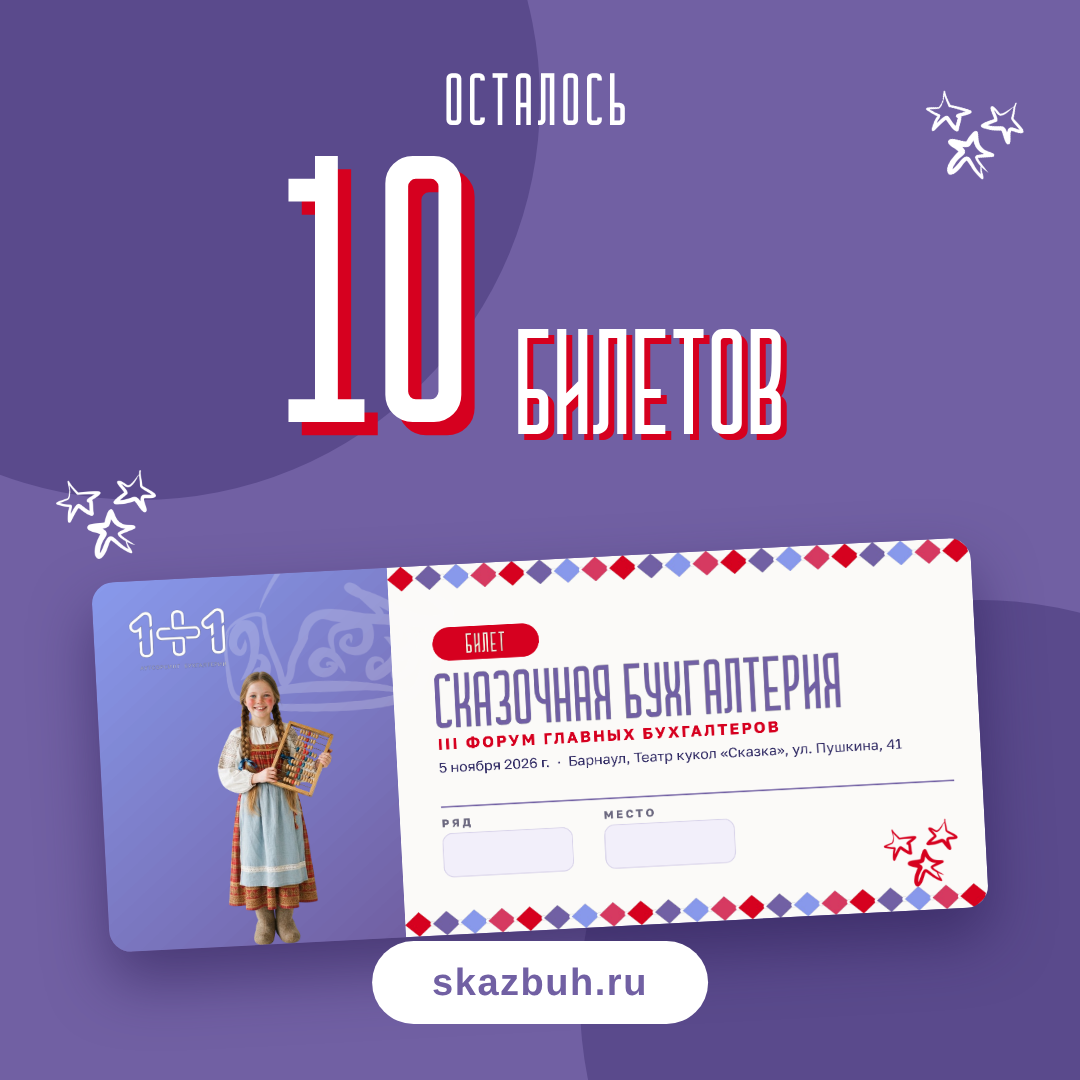
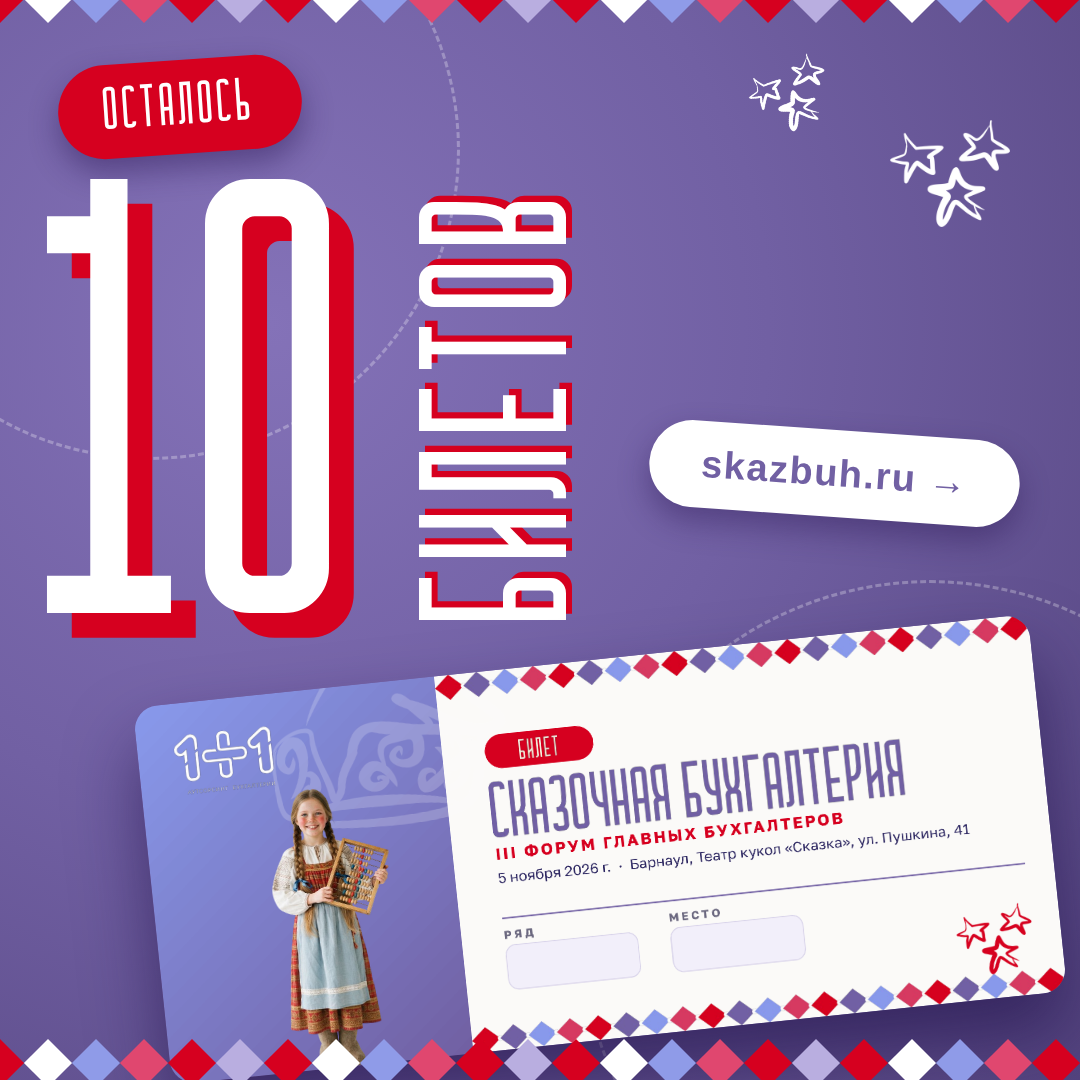
Social creatives: dynamic layout (giant 10, vertical 'билетов', tilted ticket, diamond ornament)
Claude-Session: https://claude.ai/code/session_01DZEn5nyTAWE8zavBUm6caU

diff --git a/conference-skazbuh/social/story.html b/conference-skazbuh/social/story.html
@@ -1,19 +1,22 @@
-<!DOCTYPE html><html lang="ru"><head><meta charset="utf-8"><link rel="stylesheet" href="post.css">
+<!DOCTYPE html><html lang="ru"><head><meta charset="utf-8"><link rel="stylesheet" href="post2.css">
 <style>
 html,body{width:1080px;height:1920px}
-.bgc.a{left:-300px;top:-150px;width:900px;height:900px}
-.bgc.b{right:-340px;bottom:-240px;width:960px;height:960px}
-.left{left:0;right:0;text-align:center;top:380px;font-size:92px;letter-spacing:.06em}
-.ten{left:0;right:0;text-align:center;top:500px;font-size:430px;line-height:.82;white-space:nowrap;text-shadow:.035em .035em 0 var(--red)}
-.bil{position:absolute;left:0;right:0;text-align:center;top:850px;font-family:'Cramaten',sans-serif;font-size:150px;line-height:.9;color:#fff;text-transform:uppercase;text-shadow:.04em .04em 0 var(--red)}
-.ticket{position:absolute;left:50%;margin-left:-480px;top:1075px;width:960px;border-radius:22px;box-shadow:0 30px 60px rgba(40,25,80,.55);transform:rotate(-3deg)}
-.btn{left:50%;transform:translateX(-50%);top:1580px;font-size:40px;padding:22px 64px}
-.star{width:120px}.s1{left:56px;top:360px}.s2{right:60px;top:880px;transform:rotate(18deg)}
+.ring.r1{left:-200px;top:140px;width:760px;height:760px}
+.ring.r2{right:-260px;bottom:120px;width:820px;height:820px}
+.pill.o{left:62px;top:290px;font-size:72px;padding:18px 54px 14px;transform:rotate(-4deg)}
+.big.n{left:54px;top:430px;font-size:760px}
+.vert.w{left:470px;top:1020px;font-size:250px;letter-spacing:.04em;text-shadow:.03em .03em 0 var(--red);transform:rotate(-90deg);transform-origin:left top}
+.ticket{left:60px;top:1100px;width:960px;transform:rotate(-6deg)}
+.btn{left:50%;margin-left:-250px;top:1600px;width:500px;text-align:center;font-size:42px;padding:24px 0;transform:rotate(-2deg)}
+.s1{right:60px;top:420px;width:140px}.s2{right:230px;top:340px;width:90px;transform:rotate(-16deg)}
+.s3{right:70px;top:830px;width:120px;transform:rotate(12deg)}
 </style></head><body>
-<div class="bgc a"></div><div class="bgc b"></div>
-<img class="star s1" src="zvezdy-w.png" alt=""><img class="star s2" src="zvezdy-w.png" alt="">
-<div class="left">Осталось</div>
-<div class="ten">10</div><div class="bil">билетов</div>
+<div class="ring r1"></div><div class="ring r2"></div>
+<img class="star s1" src="zvezdy-w.png" alt=""><img class="star s2" src="zvezdy-w.png" alt=""><img class="star s3" src="zvezdy-w.png" alt="">
+<div class="pill o">Осталось</div>
+<div class="big n">10</div>
+<div class="vert w">билетов</div>
 <img class="ticket" src="ticket.png" alt="">
-<div class="btn">skazbuh.ru</div>
+<div class="btn">skazbuh.ru →</div>
+<script src="diamonds.js"></script><script>strip(1886,1080,34,14);strip(-18,1080,34,14);</script>
 </body></html>

diff --git a/conference-skazbuh/social/square.html b/conference-skazbuh/social/square.html
@@ -1,20 +1,21 @@
-<!DOCTYPE html><html lang="ru"><head><meta charset="utf-8"><link rel="stylesheet" href="post.css">
+<!DOCTYPE html><html lang="ru"><head><meta charset="utf-8"><link rel="stylesheet" href="post2.css">
 <style>
 html,body{width:1080px;height:1080px}
-.bgc.a{left:-260px;top:-300px;width:800px;height:800px}
-.bgc.b{right:-300px;bottom:-320px;width:800px;height:800px}
-.left{left:0;right:0;text-align:center;top:70px;font-size:74px;letter-spacing:.06em}
-.row{position:absolute;left:0;right:0;top:175px;display:flex;justify-content:center;align-items:flex-end;gap:34px;white-space:nowrap}
-.row .n{font-family:'Cramaten',sans-serif;font-size:380px;line-height:.8;color:#fff;text-shadow:.035em .035em 0 var(--red)}
-.row .w{font-family:'Cramaten',sans-serif;font-size:150px;line-height:.8;color:#fff;text-transform:uppercase;text-shadow:.04em .04em 0 var(--red);padding-bottom:22px}
-.ticket{position:absolute;left:50%;margin-left:-440px;top:560px;width:880px;border-radius:22px;box-shadow:0 30px 60px rgba(40,25,80,.55);transform:rotate(-3deg)}
-.btn{left:50%;transform:translateX(-50%);bottom:56px;font-size:38px;padding:20px 60px}
-.star{width:100px}.s1{left:56px;top:470px}.s2{right:60px;top:90px;transform:rotate(18deg)}
+.ring.r1{left:-160px;top:-160px;width:620px;height:620px}
+.ring.r2{right:-200px;bottom:-200px;width:700px;height:700px}
+.pill.o{left:58px;top:60px;font-size:60px;padding:16px 46px 12px;transform:rotate(-4deg)}
+.big.n{left:50px;top:210px;font-size:620px}
+.vert.w{left:430px;top:620px;font-size:210px;letter-spacing:.04em;text-shadow:.03em .03em 0 var(--red);transform:rotate(-90deg);transform-origin:left top}
+.ticket{left:150px;top:660px;width:900px;transform:rotate(-6deg)}
+.btn{right:60px;top:430px;font-size:38px;padding:22px 52px;transform:rotate(4deg)}
+.s1{right:70px;top:120px;width:120px}.s2{right:250px;top:60px;width:80px;transform:rotate(-16deg)}
 </style></head><body>
-<div class="bgc a"></div><div class="bgc b"></div>
+<div class="ring r1"></div><div class="ring r2"></div>
 <img class="star s1" src="zvezdy-w.png" alt=""><img class="star s2" src="zvezdy-w.png" alt="">
-<div class="left">Осталось</div>
-<div class="row"><div class="n">10</div><div class="w">билетов</div></div>
+<div class="pill o">Осталось</div>
+<div class="big n">10</div>
+<div class="vert w">билетов</div>
 <img class="ticket" src="ticket.png" alt="">
-<div class="btn">skazbuh.ru</div>
+<div class="btn">skazbuh.ru →</div>
+<script src="diamonds.js"></script><script>strip(1046,1080,34,14);strip(-18,1080,34,14);</script>
 </body></html>

diff --git a/conference-skazbuh/social/post2.css b/conference-skazbuh/social/post2.css
@@ -1,0 +1,14 @@
+@font-face{ font-family:'Cramaten'; src:url('Cramaten.ttf') format('truetype'); }
+:root{ --violet:#7160a3; --deep:#4f4080; --red:#d6001f; --pink:#e0476f; --sky:#8f9be8; }
+*{margin:0;padding:0;box-sizing:border-box}
+html,body{background:radial-gradient(circle at 25% 30%, #8472b8 0%, #7160a3 45%, #54447f 100%)}
+body{font-family:'Liberation Sans',Arial,sans-serif;position:relative;overflow:hidden;color:#fff}
+.abs{position:absolute}
+.dm{position:absolute;width:34px;height:34px;transform:rotate(45deg)}
+.pill{position:absolute;background:var(--red);color:#fff;font-family:'Cramaten',sans-serif;text-transform:uppercase;border-radius:999px;white-space:nowrap;letter-spacing:.06em;box-shadow:0 14px 30px rgba(40,20,80,.45)}
+.big{position:absolute;font-family:'Cramaten',sans-serif;color:#fff;line-height:.8;white-space:nowrap;text-shadow:.04em .04em 0 var(--red)}
+.vert{position:absolute;font-family:'Cramaten',sans-serif;color:#fff;line-height:.8;white-space:nowrap;text-transform:uppercase;text-shadow:.04em .04em 0 var(--red);transform-origin:left top}
+.ticket{position:absolute;border-radius:24px;box-shadow:0 40px 70px rgba(30,15,70,.6)}
+.btn{position:absolute;background:#fff;color:var(--violet);font-weight:bold;border-radius:999px;white-space:nowrap;letter-spacing:.04em;box-shadow:0 14px 30px rgba(40,20,80,.4)}
+.star{position:absolute;height:auto}
+.ring{position:absolute;border-radius:50%;border:3px dashed rgba(255,255,255,.28)}

diff --git a/conference-skazbuh/social/diamonds.js b/conference-skazbuh/social/diamonds.js
@@ -1,0 +1,2 @@
+function strip(y,w,size,gap){var c=['#d6001f','#ffffff','#8f9be8','#e0476f','#d6001f','#b9aee0'];var n=Math.ceil(w/(size+gap))+2;
+ for(var i=0;i<n;i++){var d=document.createElement('div');d.className='dm';d.style.width=d.style.height=size+'px';d.style.left=(i*(size+gap)-size/2)+'px';d.style.top=y+'px';d.style.background=c[i%c.length];document.body.appendChild(d);}}
